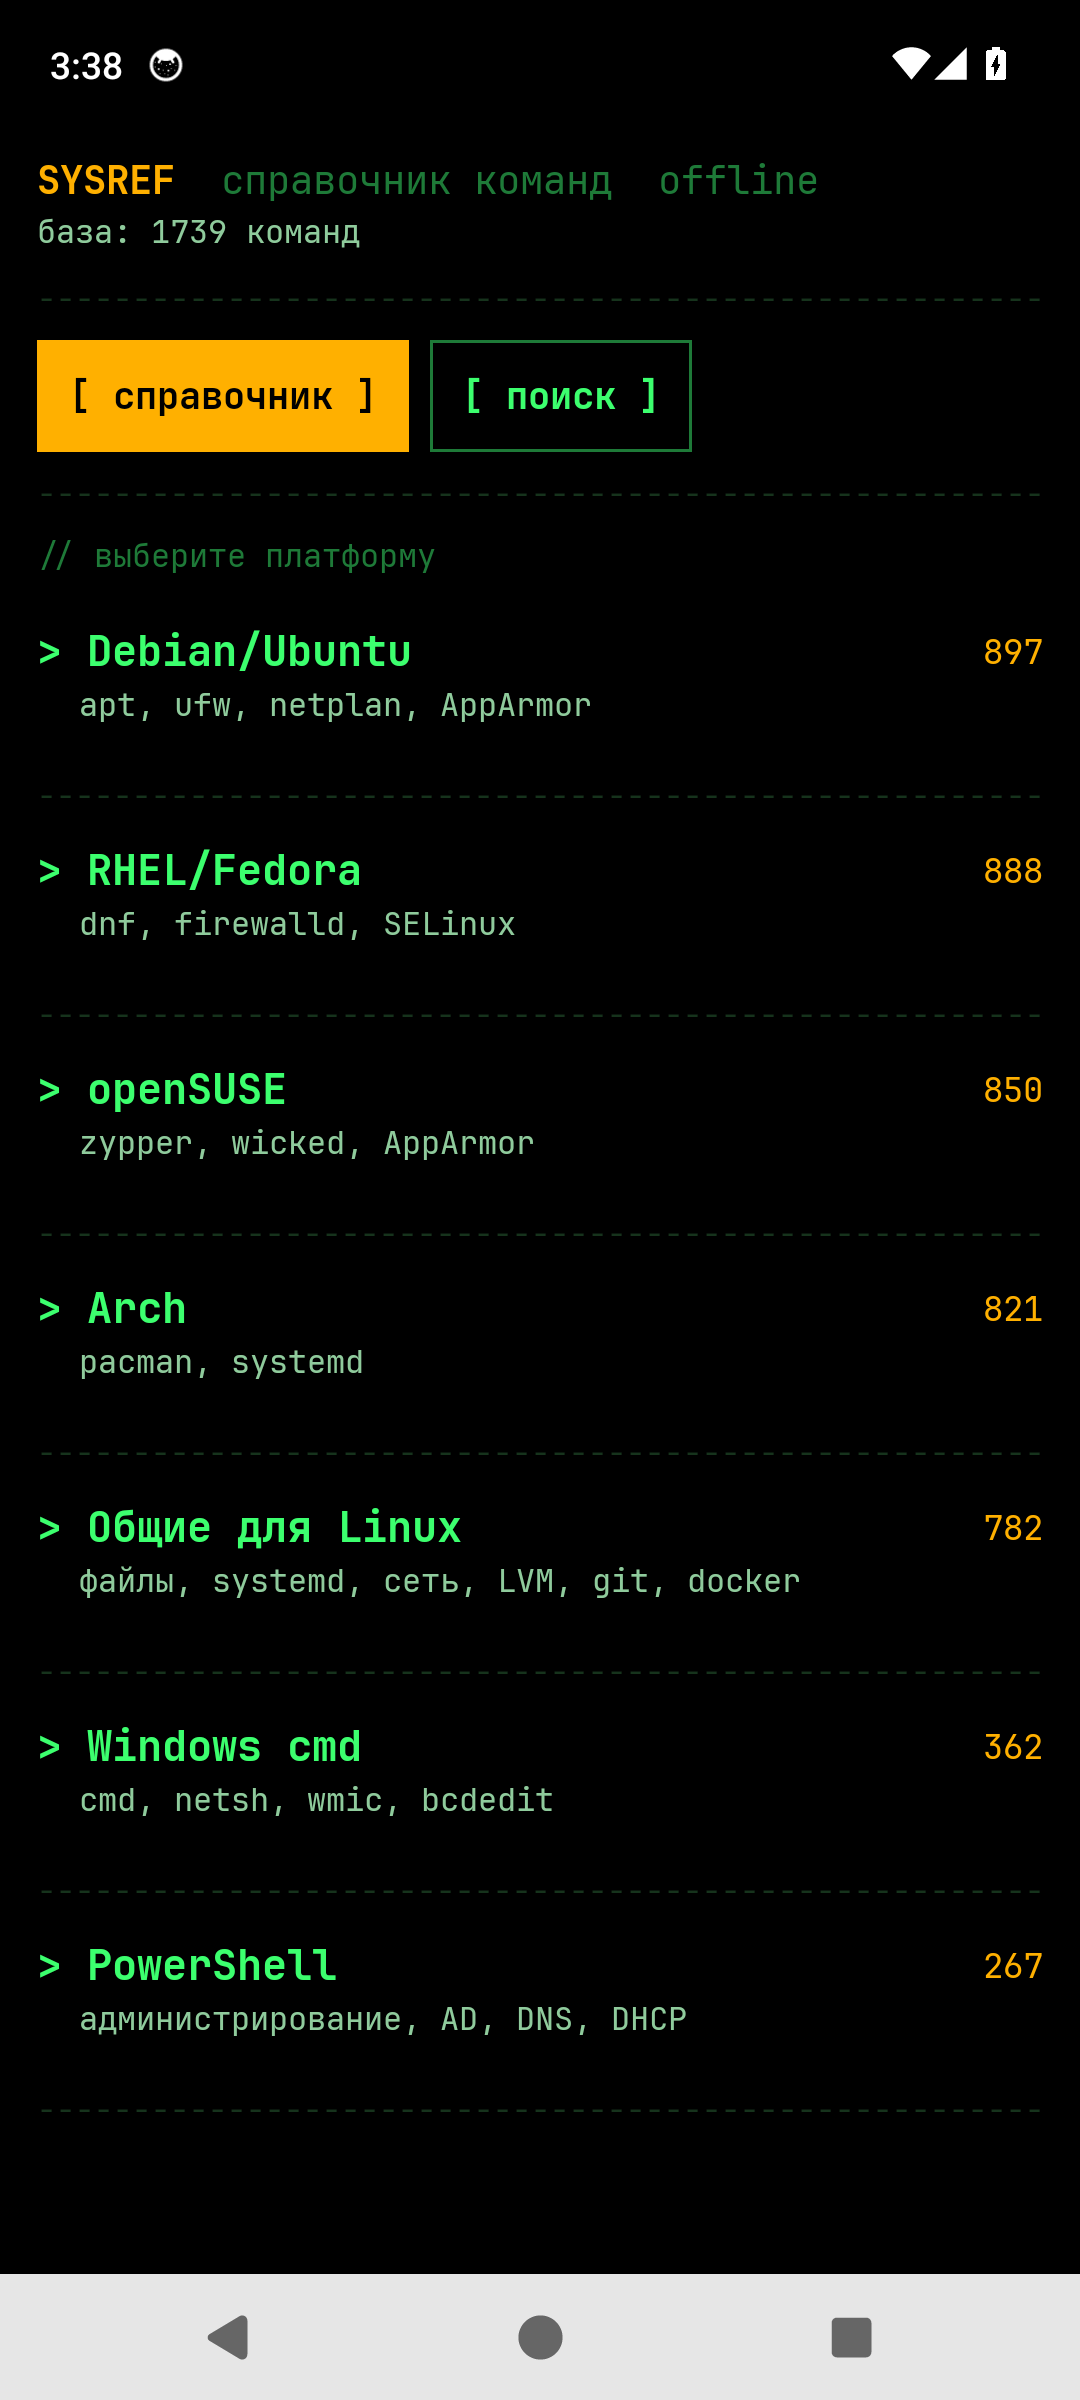
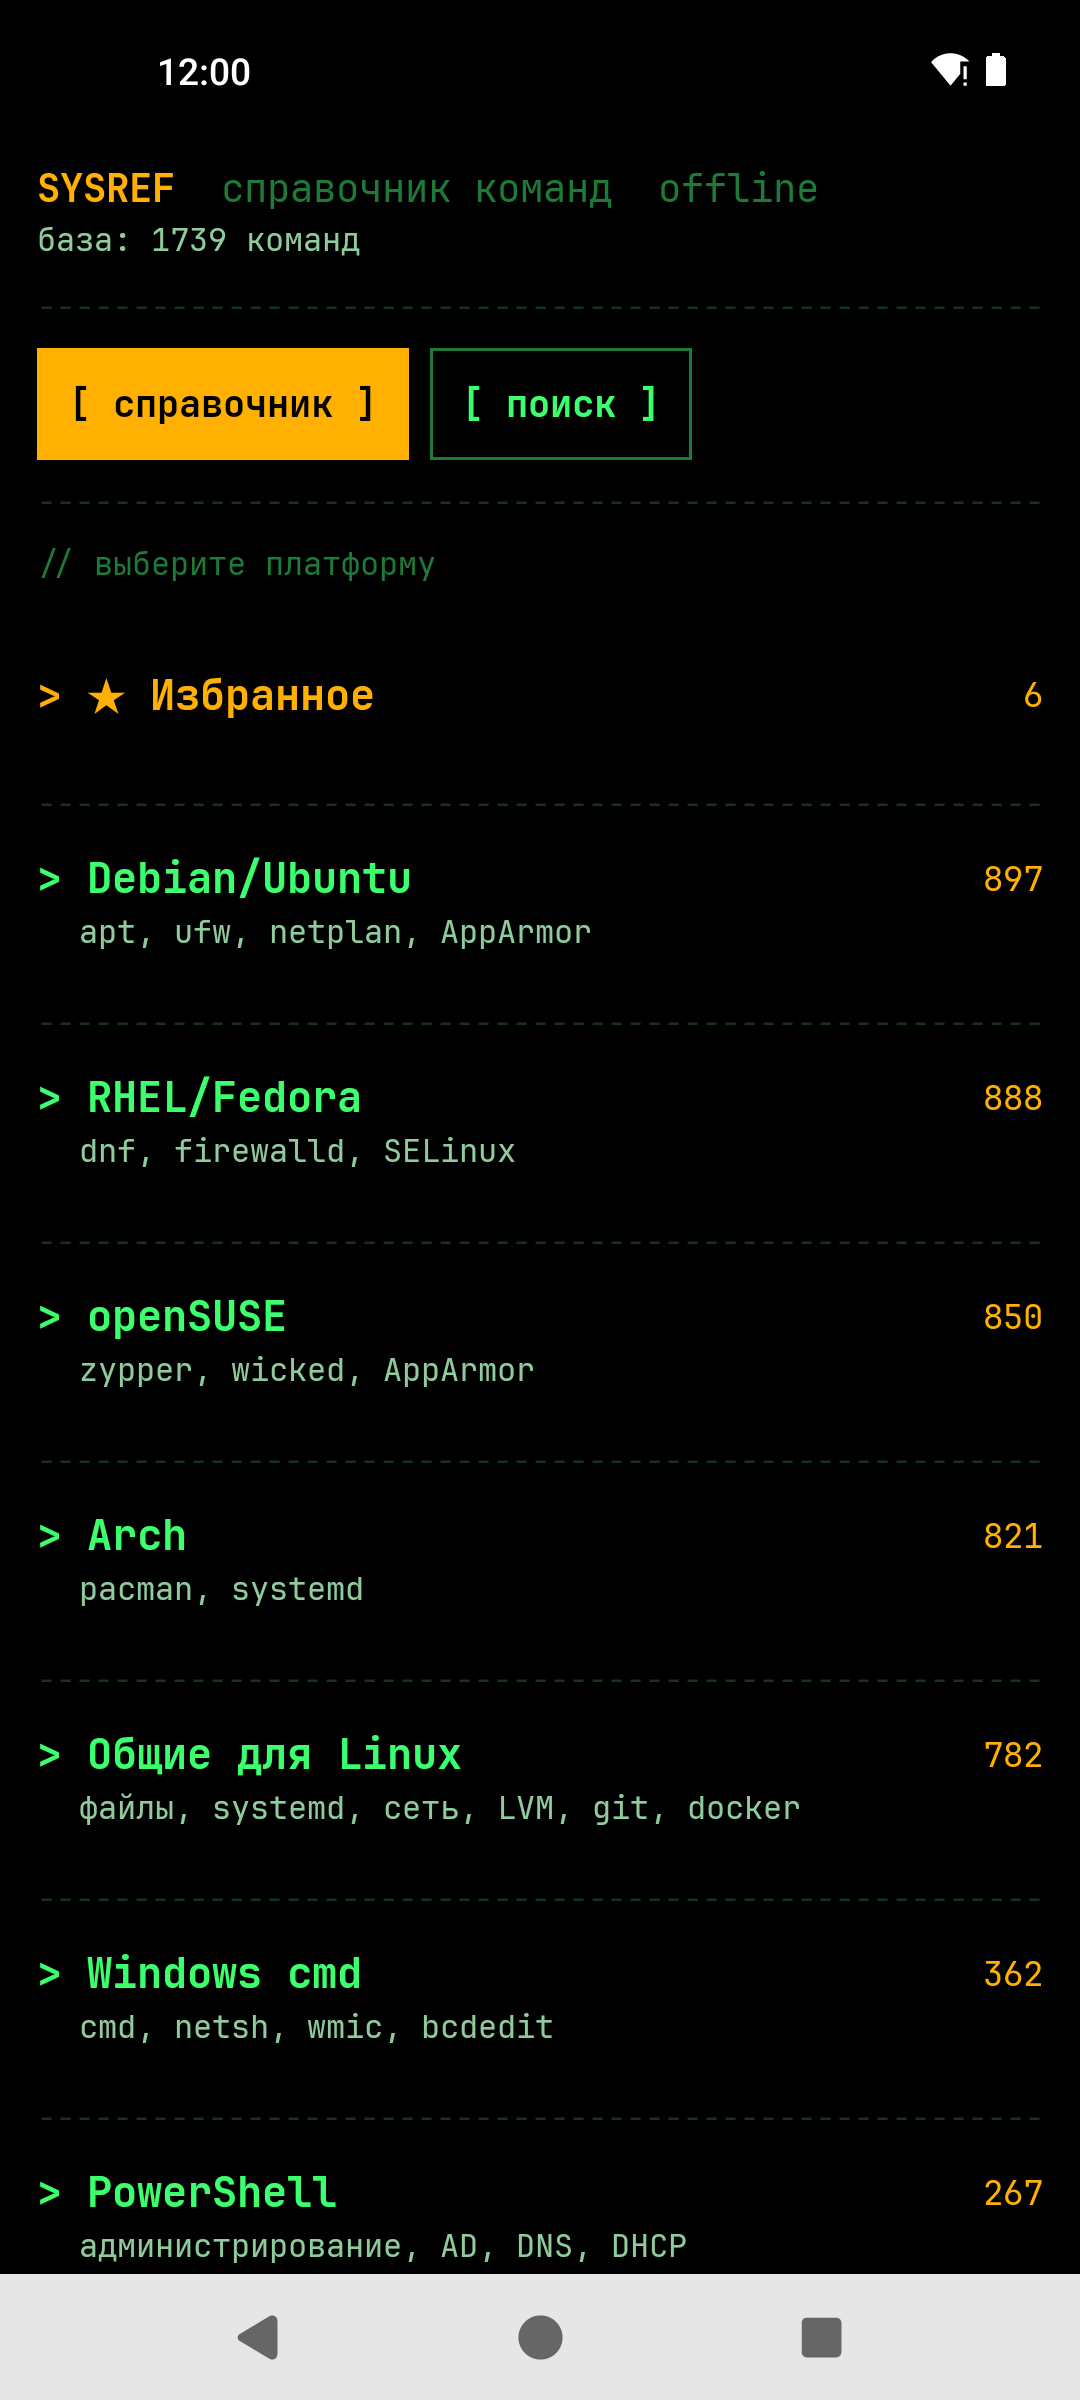
docs: refresh screenshots for v1.1.0 favorites (README + fastlane)

diff --git a/README.md b/README.md
@@ -8,11 +8,11 @@
 
 ## Скриншоты
 
-Список платформ:
+Список платформ. Сверху пункт «★ Избранное» со счётчиком сохранённых команд:
 
 ![Платформы SYSREF](docs/screenshots/platforms.png)
 
-Раздел «Пакеты» для Debian/Ubuntu:
+Раздел «Пакеты» для Debian/Ubuntu. Звёздочка справа добавляет команду в избранное (★ — уже в избранном, ☆ — нет):
 
 ![Пакеты Debian/Ubuntu](docs/screenshots/packages.png)
 
@@ -23,6 +23,10 @@
 Поиск по русскому слову `файрвол` с фильтром Debian/Ubuntu:
 
 ![Поиск файрвол](docs/screenshots/search-firewall.png)
+
+Включён чип «★ избранное»: без запроса показываются все избранные команды. Чип работает вместе с запросом и фильтром платформы:
+
+![Избранное](docs/screenshots/search-favorites.png)
 
 ## Возможности
 
